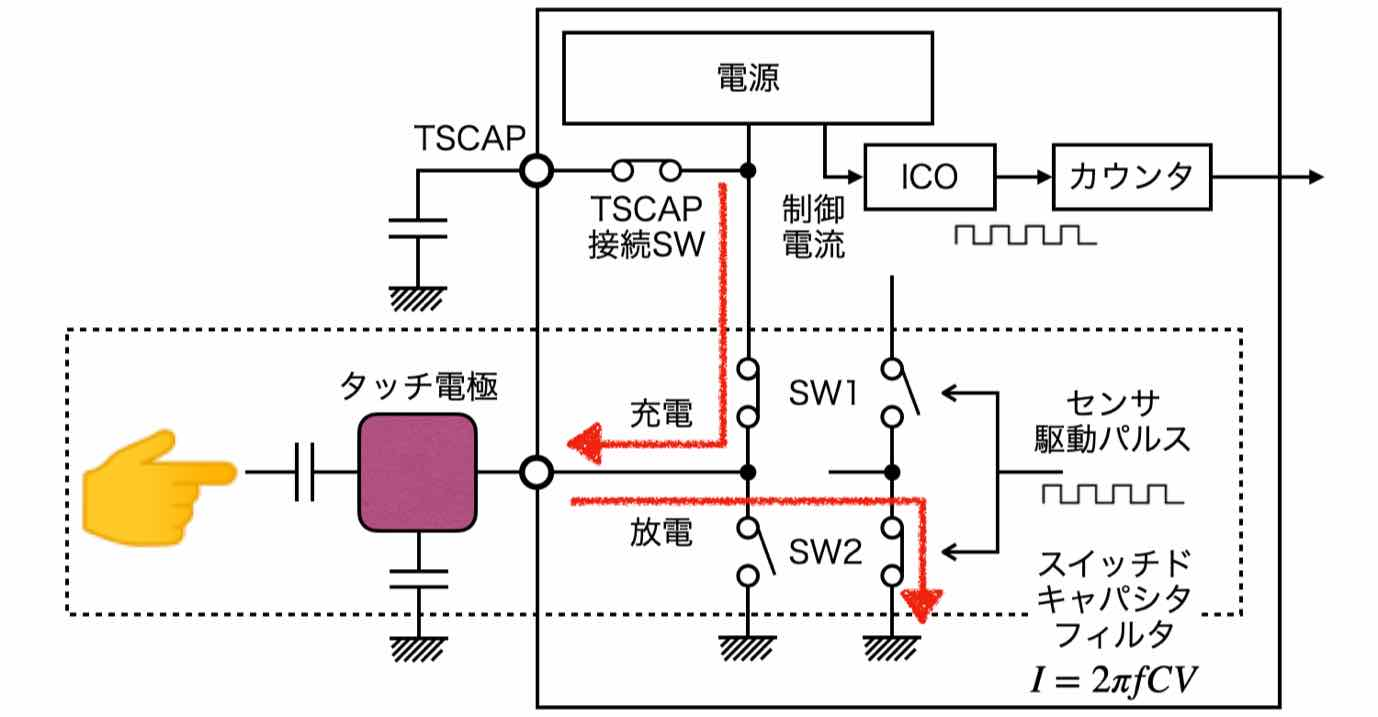
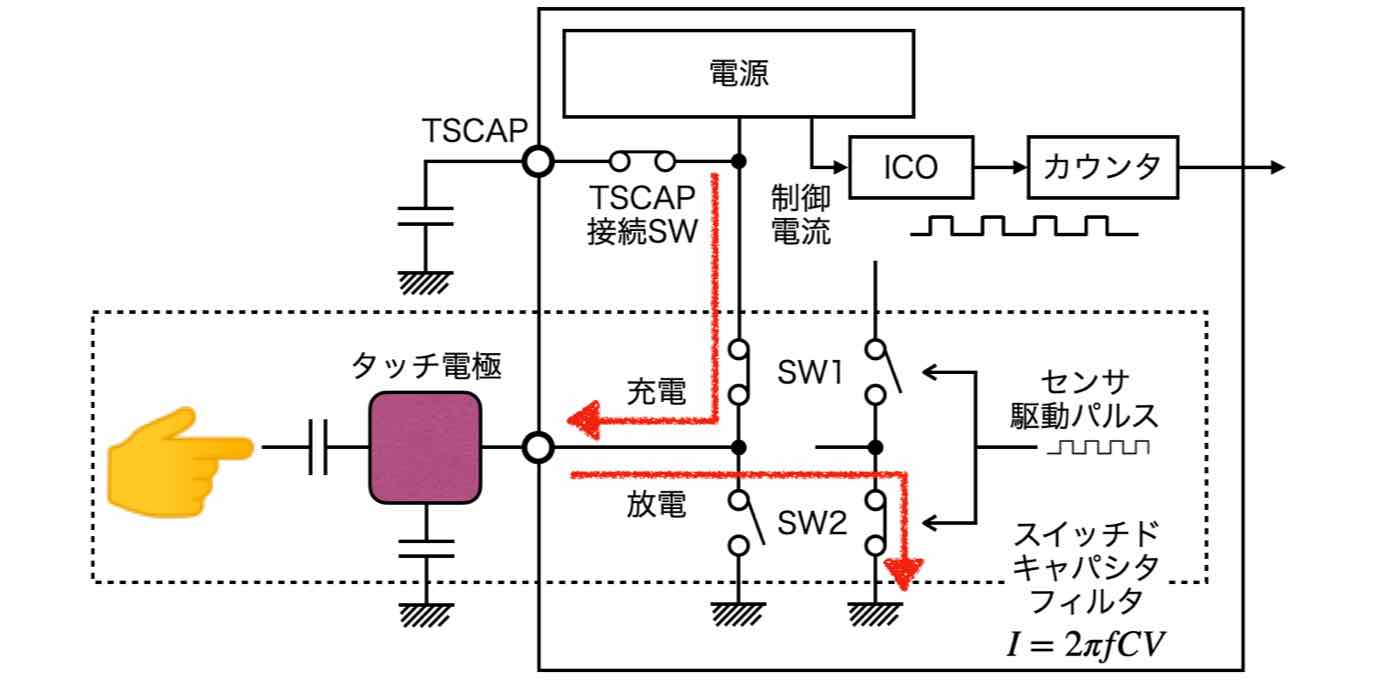
Update post.

Changed region(s): [[0.0312, 0.0, 0.968, 1.0]]

diff --git a/2024/06/10/index.html b/2024/06/10/index.html
@@ -95,7 +95,7 @@
 
 <p>つまり、直接的に静電容量を測定するのではなく、電極に指を置く前後のカウンタ値の差で、タッチを検出するワケです。</p>
 
-<p><img src="/images/2024/06-10/CTSU.jpg" alt="CTSU - スイッチドキャパシタフィルタとICO" title="CTSU - スイッチドキャパシタフィルタとICO" width="1378" height="717" class="simple"></p>
+<p><img src="/images/2024/06-10/CTSU.jpg" alt="CTSU - スイッチドキャパシタフィルタとICO" title="CTSU - スイッチドキャパシタフィルタとICO" width="1377" height="680" class="simple"></p>
 
 <div class="quote clear-both">
 
